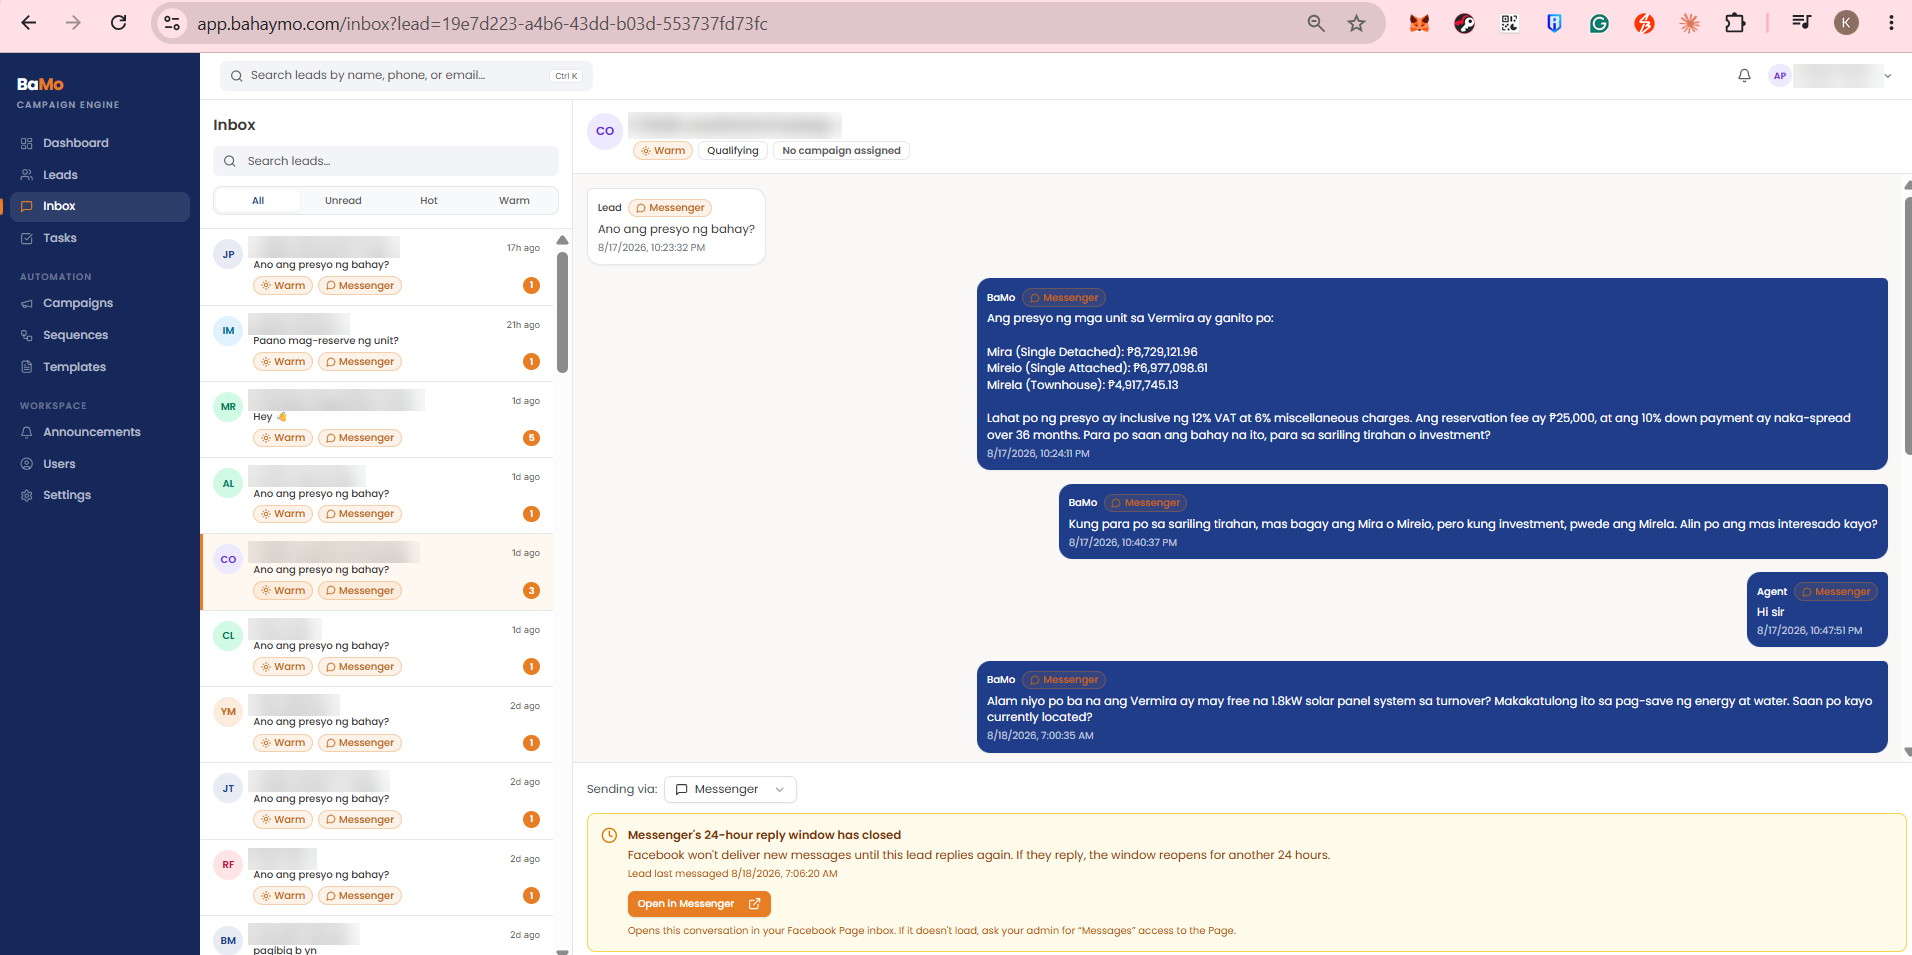
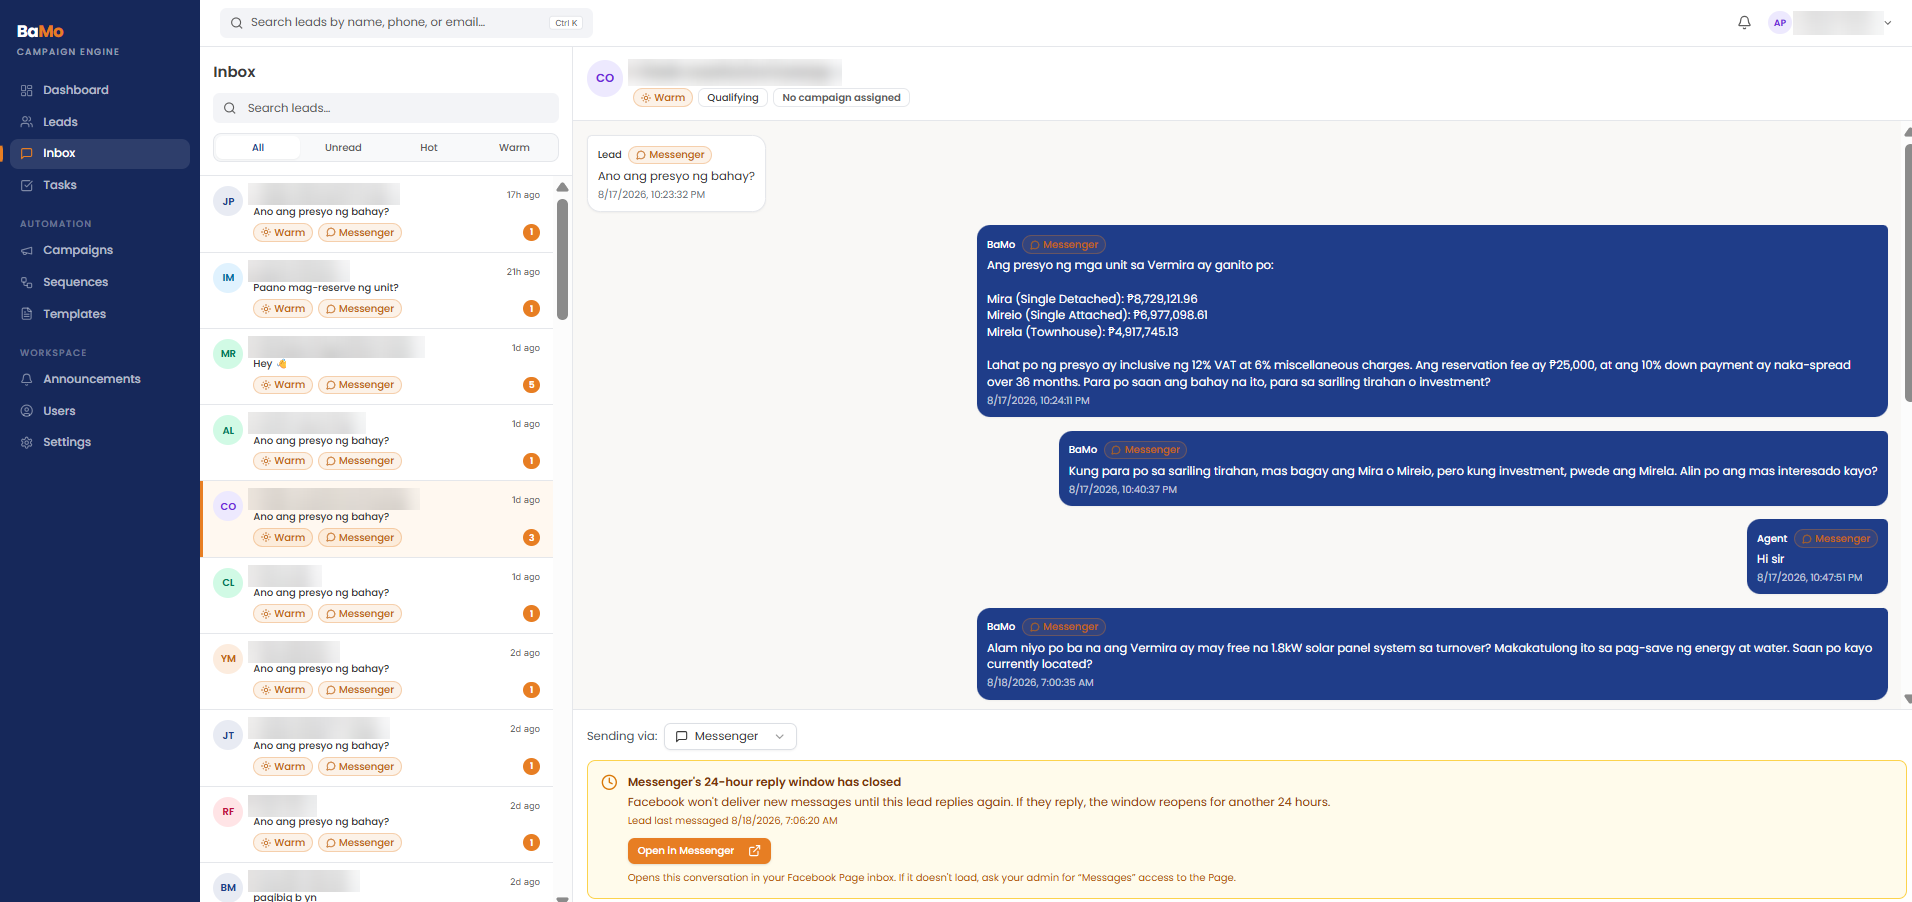
Crop browser chrome off the case study 02 screenshot
The capture included the browser address bar, which exposed the app URL
along with a lead record UUID in the query string. Crop it away so the
image starts at the app itself.

The cut line is measured rather than eyeballed: sampling pixel rows
shows chrome pink up to y=51, a one pixel transition at y=52, and app
content from y=53, so the crop is at 53 and leaves no chrome sliver.
Image is now 1912x902 and the declared width/height are updated to
match.

Verified: build passes, the image loads at 1912x902 with the intrinsic
size matching the declared attributes, and the page makes no failing
requests.

diff --git a/src/components/portfolio/CaseStudies.tsx b/src/components/portfolio/CaseStudies.tsx
@@ -170,7 +170,7 @@ export function CaseStudies() {
                   src={messengerInboxScreenshot}
                   alt="BaMo Campaign Engine inbox showing a Messenger conversation thread, where the assistant answers a pricing question with unit prices, VAT, reservation fee and down payment terms, then asks a qualifying question. Lead names are blurred."
                   width={1912}
-                  height={955}
+                  height={902}
                   loading="lazy"
                   className="w-full rounded-xl border border-border shadow-card"
                 />
